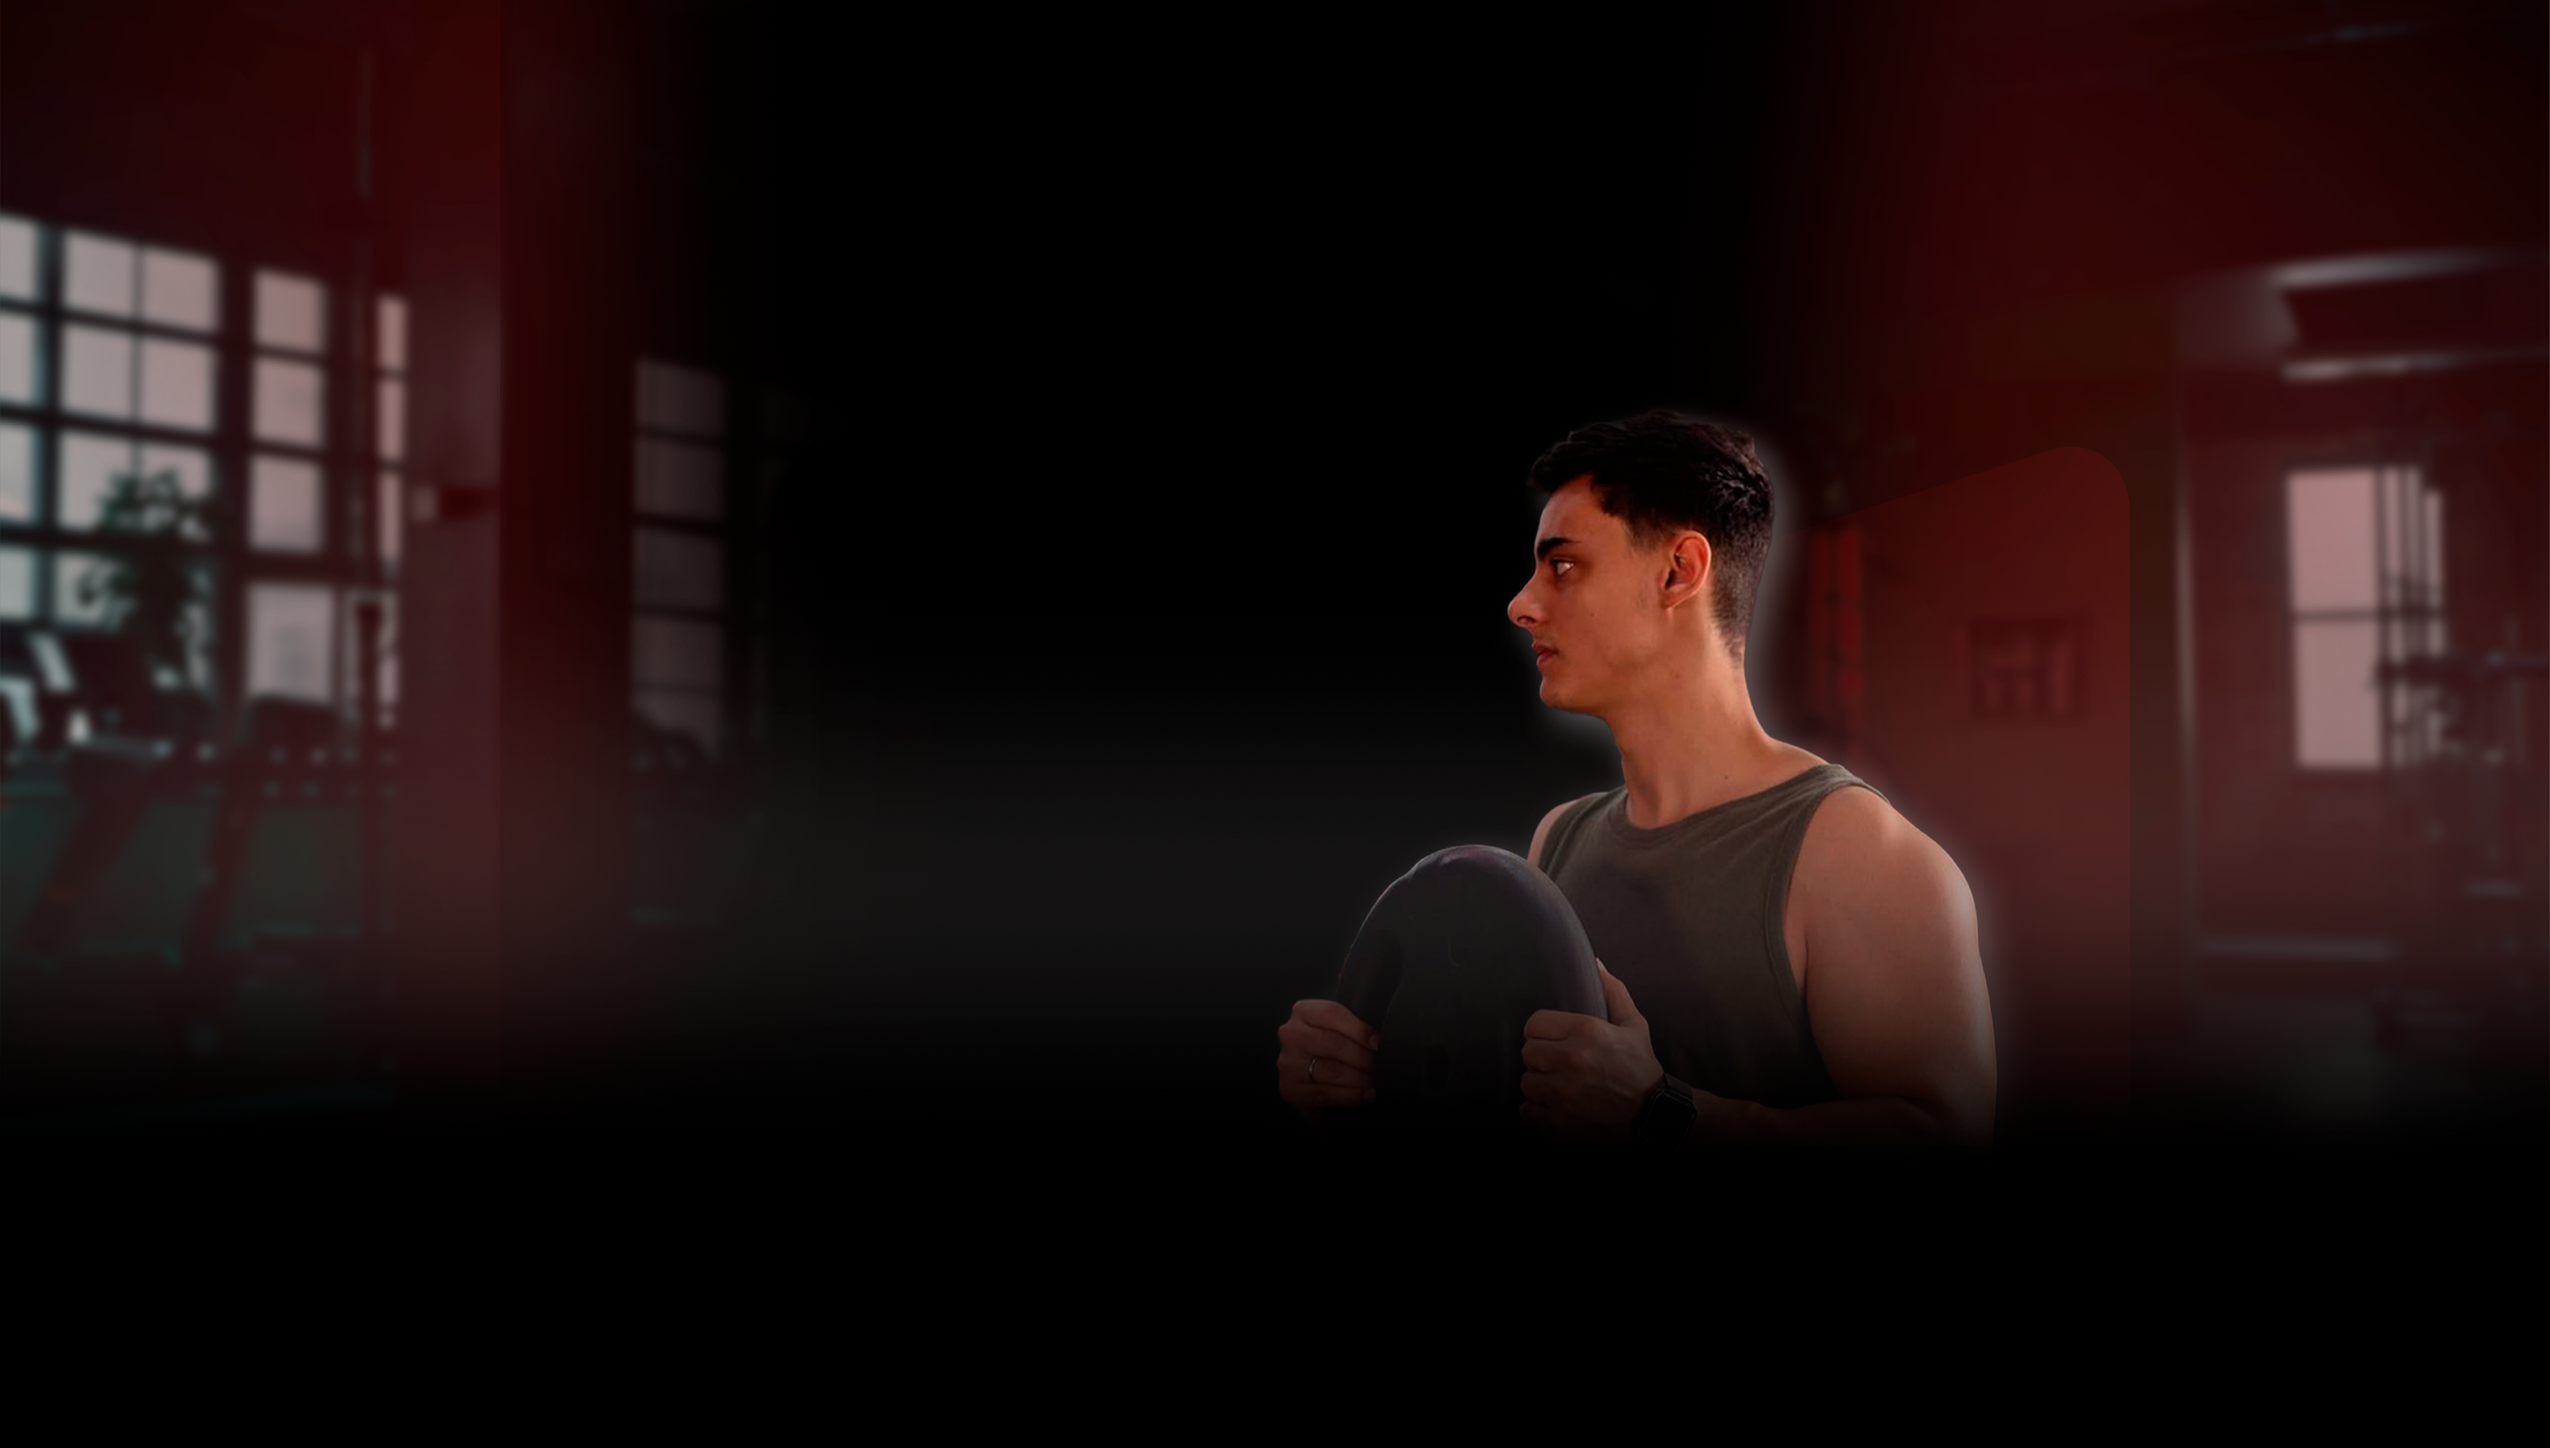
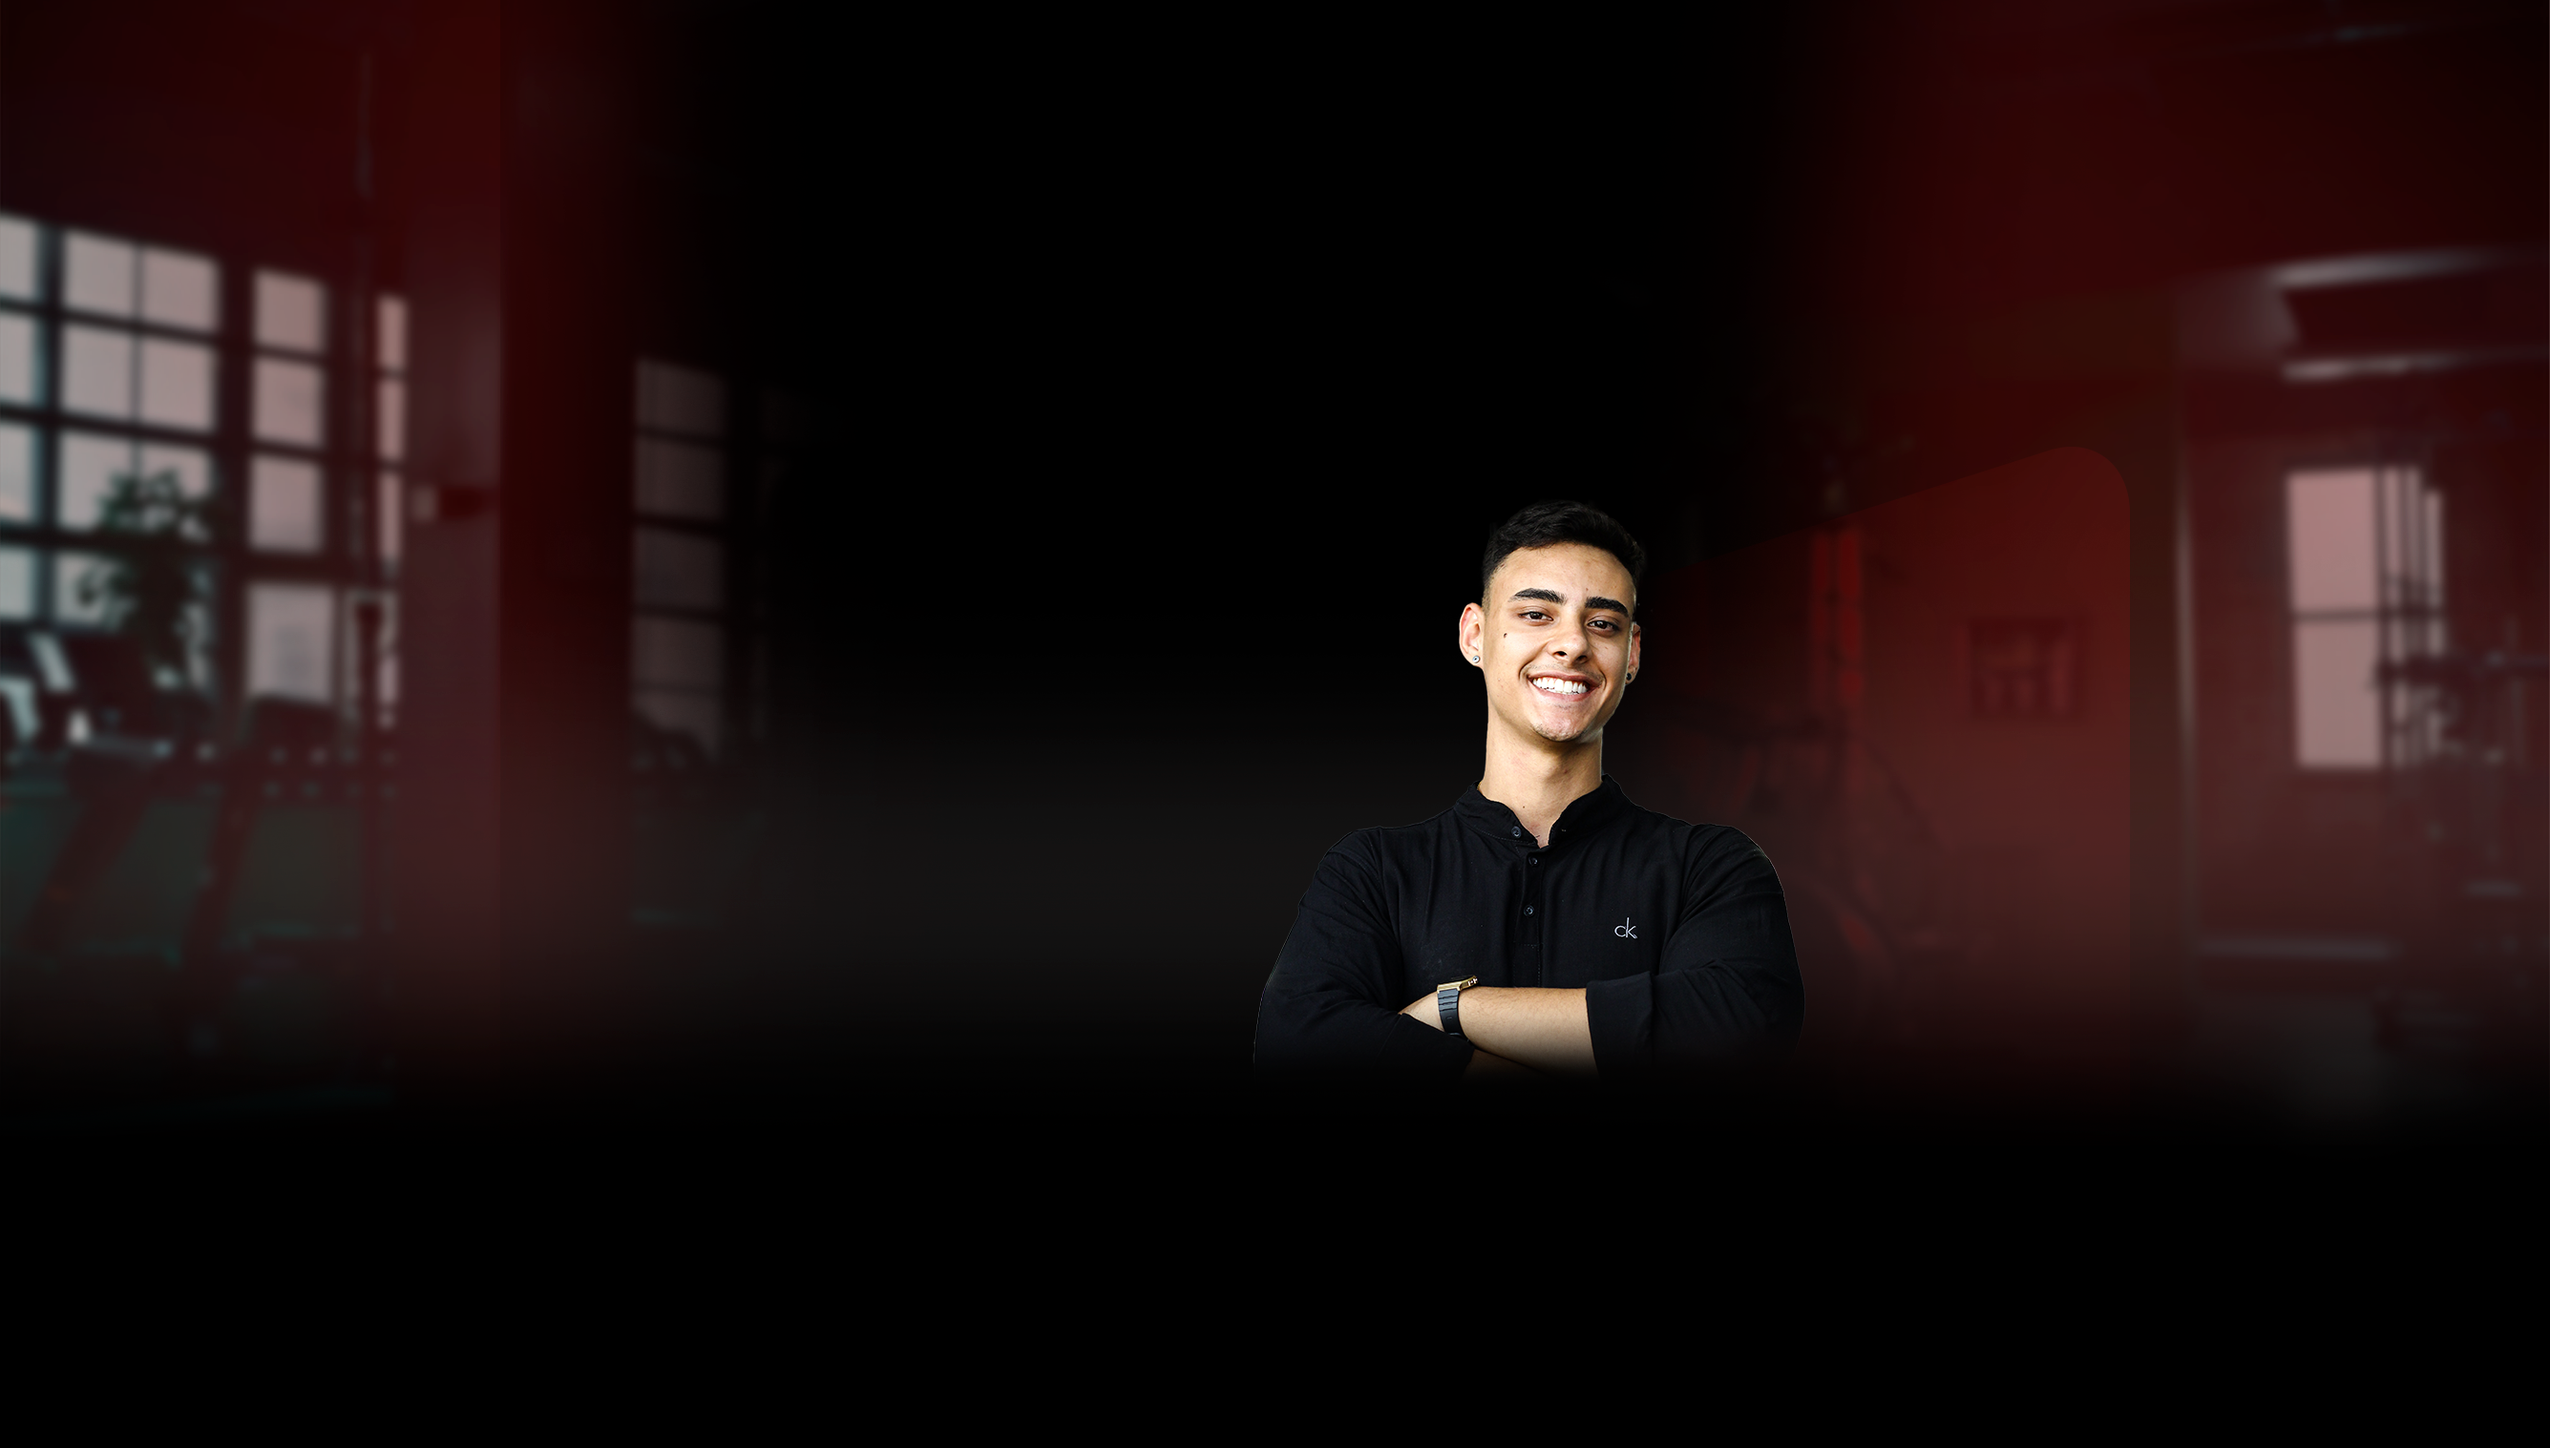
feat: Create nutricionista section

Changed region(s): [[0.4972, 0.2788, 0.8079, 0.7746]]

diff --git a/src/components/sections/FeaturesSplit.js b/src/components/sections/FeaturesSplit.js
@@ -3,6 +3,8 @@ import classNames from 'classnames';
 import { SectionSplitProps } from '../../utils/SectionProps';
 import SectionHeader from './partials/SectionHeader';
 import Image from '../elements/Image';
+import ButtonGroup from '../elements/ButtonGroup';
+import Button from '../elements/Button';
 
 const propTypes = {
   ...SectionSplitProps.types,
@@ -130,20 +132,22 @@ const FeaturesSplit = ({
               </div>
             </div>
 
-            {/* <div className="split-item">
+            <div className="split-item">
               <div
                 className="split-item-content center-content-mobile reveal-from-left"
                 data-reveal-container=".split-item"
               >
                 <div className="text-xxs text-color-primary fw-600 tt-u mb-8">
-                  Lightning fast workflow
+                  Parceria Exclusiva
                 </div>
-                <h3 className="mt-0 mb-12">Data-driven insights</h3>
+                <h3 className="mt-0 mb-12">Treinos e Nutrição para Você!</h3>
                 <p className="m-0">
-                  Lorem ipsum dolor sit amet, consectetur adipiscing elit, sed
-                  do eiusmod tempor incididunt ut labore et dolore magna aliqua
-                  — Ut enim ad minim veniam, quis nostrud exercitation ullamco
-                  laboris nisi ut aliquip ex ea commodo consequat.
+                  Agora, ao se inscrever no programa de treino, você pode contar
+                  também com um acompanhamento nutricional personalizado! Em
+                  parceria com nutricionista, oferecemos planos de alimentação
+                  que se ajustam aos seus objetivos, a um preço mais acessível.
+                  Não perca a oportunidade de potencializar seus resultados com
+                  uma abordagem completa!
                 </p>
               </div>
               <div
@@ -154,13 +158,34 @@ const FeaturesSplit = ({
                 data-reveal-container=".split-item"
               >
                 <Image
-                  src={require('./../../assets/images/features-split-image-03.png')}
+                  src={require('./../../assets/images/rafael-e-nutricionista.png')}
                   alt="Features split 03"
                   width={528}
                   height={396}
                 />
               </div>
-            </div> */}
+            </div>
+          </div>
+          <div className="reveal-from-bottom" data-reveal-delay="600">
+            <ButtonGroup
+              style={{
+                width: '100%',
+                display: 'flex',
+                justifyContent: 'center',
+              }}
+            >
+              <Button
+                tag="a"
+                color="primary"
+                wideMobile
+                style={{ width: '100%', maxWidth: '400px' }}
+                href="https://wa.me/5518996643867?text=Ol%C3%A1,%20desejo%20conhecer%20mais%20sobre%20a%20consultoria%20e%20nutrição!"
+                target="_blank"
+                rel="noopener noreferrer"
+              >
+                Comece Sua Jornada de Transformação!
+              </Button>
+            </ButtonGroup>
           </div>
         </div>
       </div>

diff --git a/src/components/sections/Hero.js b/src/components/sections/Hero.js
@@ -1,4 +1,4 @@
-import React, { useState } from 'react';
+import React, { useState, useEffect } from 'react';
 import classNames from 'classnames';
 import { SectionProps } from '../../utils/SectionProps';
 import ButtonGroup from '../elements/ButtonGroup';
@@ -25,6 +25,17 @@ const Hero = ({
   ...props
 }) => {
   const [videoModalActive, setVideomodalactive] = useState(false);
+  const [windowWidth, setWindowWidth] = useState(window.innerWidth);
+
+  // Função para atualizar a largura da janela
+  useEffect(() => {
+    const handleResize = () => setWindowWidth(window.innerWidth);
+    window.addEventListener('resize', handleResize);
+
+    return () => {
+      window.removeEventListener('resize', handleResize);
+    };
+  }, []);
 
   const openModal = (e) => {
     e.preventDefault();
@@ -37,7 +48,6 @@ const Hero = ({
   };
 
   const outerClasses = classNames(
-    'hero section center-content',
     topOuterDivider && 'has-top-divider',
     bottomOuterDivider && 'has-bottom-divider',
     hasBgColor && 'has-bg-color',
@@ -56,22 +66,34 @@ const Hero = ({
       {...props}
       className={outerClasses}
       style={{
-        backgroundImage: `url(${require('./../../assets/images/bg.png')})`,
-        backgroundPosition: 'center', // Centraliza a imagem
-        backgroundRepeat: 'no-repeat', // Impede a repetição
-        width: '100%', // Define a largura como 100%
+        backgroundImage:
+          windowWidth > 640
+            ? `url(${require('./../../assets/images/bg.png')})`
+            : 'none',
+        backgroundPosition: 'center',
+        backgroundRepeat: 'no-repeat',
+        width: '100%',
       }}
     >
       <div className="container-sm">
         <div className={innerClasses}>
           <div className="hero-content">
+            {windowWidth <= 640 && (
+              <div className="hero-image-mobile">
+                <Image
+                  src={require('./../../assets/images/rafael-oliveira.png')}
+                  alt="Imagem personalizada"
+                />
+              </div>
+            )}
             <h1
               className="mt-0 mb-16 reveal-from-bottom"
               data-reveal-delay="200"
             >
-              Transforme Seu Corpo e Sua Vida com{'    '}
+              Transforme Seu Corpo e Sua Vida com{' '}
               <span className="text-color-primary">
-                {'    '}Treinos Personalizados!
+                {' '}
+                Treinos Personalizados!
               </span>
             </h1>
             <div className="container-xs">
